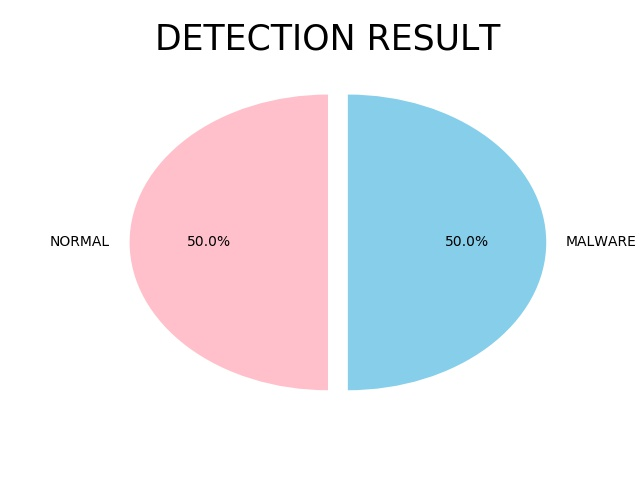
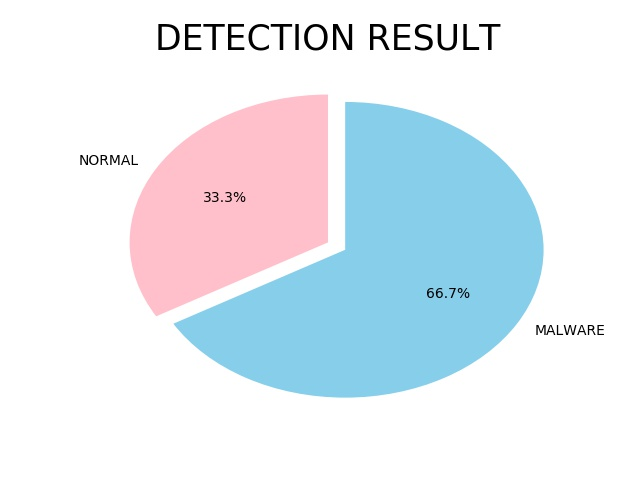
완성전 v1.0

diff --git a/PROJ_COD/FINAL/main.py b/PROJ_COD/FINAL/main.py
@@ -5,7 +5,6 @@ from PyQt5.QtGui import QPixmap, QIcon
 from PyQt5.QtWidgets import QFileDialog, QTableWidgetItem, QAbstractItemView
 from datetime import datetime
 import matplotlib.pyplot as plt
-
 import PROJ_COD.FINAL.Get_File_Hash as getFileHash
 import PROJ_COD.FINAL.Get_Machine_Percentage as fileMachine
 import PROJ_COD.FINAL.Get_MongoDB_Connection as mongoDB
@@ -24,6 +23,7 @@ class Form(QtWidgets.QDialog):
         self.tabWidget.setTabEnabled(1, False)
         self.tabWidget.setTabEnabled(4, False)
         self.dialogTextBrowser = MyDialog(self)
+        self.ui.tab0ProcessLabel.setText("파일을 선택하세요")
 
         global fname
         fname = ""
@@ -36,6 +36,7 @@ class Form(QtWidgets.QDialog):
 
     @pyqtSlot()
     def startFileDetectionBtnClick(self):
+        self.ui.tab0ProcessLabel.setText("작동중")
         fname = self.ui.selected_file.text()
         if fname[-3:] != "exe" or fname == "":
             self.dialogTextBrowser.exec_()
@@ -49,6 +50,8 @@ class Form(QtWidgets.QDialog):
             self.ui.page2_filepathLabel.setText(fileDirName)
             fileHash = getFileHash.getFileHash(fname)
             self.ui.page2_md5Label.setText(fileHash)
+
+
 
             md5Check = getFileHash.checkHashInDB(fname)
             if md5Check[0] == "YES":
@@ -73,9 +76,19 @@ class Form(QtWidgets.QDialog):
                 print(dic)
                 print(dic[0])
                 try:
-                    if dic[0] > 10:
+                    if dic[0] > 4:
                         self.ui.numCountLabel2.setText("악성 코드")
                         self.ui.numberCountLabel.setPixmap(QPixmap("그림2.jpg"))
+                        # 머신러닝 돌리는 코드
+                        # 파일 경로 전송해줘야됨
+                        machineRslt = fileMachine.getFIleMachine(fname)
+                        if machineRslt == "NORMAL":
+                            self.ui.page2_similarLabel.setText("정상파일")
+                            self.ui.machineResultLabel.setText("정상파일")
+                        else:
+                            self.ui.page2_similarLabel.setText("악성파일")
+                            self.ui.machineResultLabel.setText("악성파일")
+                            self.ui.numberCountLabel.setPixmap(QPixmap("그림3.jpg"))
                     else:
                         self.ui.numCountLabel2.setText("정상 파일")
                         self.ui.numberCountLabel.setPixmap(QPixmap("그림2.jpg"))
@@ -85,16 +98,6 @@ class Form(QtWidgets.QDialog):
                     print("[+] dic['positives'] DOES NOT EXIST.")
                     # self.up.numberCountLabel.setPiexmap("그림1.jpg")
                     ###############################
-                # 머신러닝 돌리는 코드
-                # 파일 경로 전송해줘야됨
-                machineRslt = fileMachine.getFIleMachine(fname)
-                if machineRslt == "NORMAL":
-                    self.ui.page2_similarLabel.setText("정상파일")
-                    self.ui.machineResultLabel.setText("정상파일")
-                else:
-                    self.ui.page2_similarLabel.setText("악성파일")
-                    self.ui.machineResultLabel.setText("악성파일")
-                self.ui.numberCountLabel.setPixmap(QPixmap("그림3.jpg"))
             else:
                 print("Error !!!")
                 ################################
@@ -220,22 +223,28 @@ class Form(QtWidgets.QDialog):
 
     @pyqtSlot()
     def startFolderDetectionBtnClick(self):
+        self.ui.tab4ProcessLabel.setText("작동중")
         self.ui.inputNormal.setText(self.ui.numNormal.text())
         self.ui.inputMalware.setText(self.ui.numMalware.text())
 
         flist = glob.glob(dname + "/*.exe")
         normalCount = 0
         malwareCount = 0
+        # 바이러스 토탈 돌리기
         for fname in flist:
-            # 머신러닝 돌리는 코드
-            # 파일 경로 전송해줘야됨
-            print("[+] fname : ", fname)
-            machineRslt = fileMachine.getFIleMachine(fname)
-            print("{+}", machineRslt)
-            if machineRslt == "NORMAL":
-                normalCount += 1
+            dic = vt.get_mal_kind(fname)
+            if dic[0] > 4:
+                self.ui.numCountLabel2.setText("악성 코드")
+                self.ui.numberCountLabel.setPixmap(QPixmap("그림2.jpg"))
+                # 머신러닝 돌리는 코드
+                # 파일 경로 전송해줘야됨
+                machineRslt = fileMachine.getFIleMachine(fname)
+                if machineRslt == "NORMAL":
+                    normalCount += 1
+                else:
+                    malwareCount += 1
             else:
-                malwareCount += 1
+                normalCount += 1
 
         self.ui.detectedNormal.setText(str(normalCount))
         self.ui.detectedMalware.setText(str(malwareCount))

diff --git a/PROJ_COD/FINAL/Save_Learn_Data.py b/PROJ_COD/FINAL/Save_Learn_Data.py
@@ -5,9 +5,10 @@ import PROJ_COD.FINAL.Get_VirusTotal as getVirustotal
 import PROJ_COD.FINAL.Get_File_Hash as getFileHash
 import PROJ_COD.FINAL.Get_MongoDB_Connection as mongoDB
 
-# learnFiles = glob.glob("G:\\악성코드\\*.exe")
-learnFiles = glob.glob("G:\\exe파일\\*.exe")
+learnFiles = glob.glob("G:\\악성코드\\*.exe")
+# learnFiles = glob.glob("G:\\exe파일\\*.exe")
 # learnFiles = glob.glob("G:\\exe파일\\새 폴더\\*.exe")
+# learnFiles = glob.glob("C:\\Users\\Administrator\\Downloads\\*.exe")
 
 def insertDataToDatabase():
     checkData = getFileHash.checkHashInDB(fileInfo['hash'])
@@ -19,9 +20,11 @@ def insertDataToDatabase():
         print("[+] Insert FAILE!!!!!!!")
 
 for filePath in learnFiles:
-    print(filePath)
+    print("[+]------------------------------------------------------------------------------------------------------>")
+    print("[+] file Path : ", filePath)
     fileInfo = getFileInfo.getFileInfo(filePath)
     checkDB = getFileHash.checkHashInDB(getFileHash.getFileHash(filePath))
+    print("[+] FILE HASH : ",getFileHash.getFileHash(filePath))
     if checkDB[0] == "NO":
         if fileInfo != "NOPEFILE":
             virustotal = getVirustotal.get_mal_kind(filePath)
@@ -30,11 +33,13 @@ for filePath in learnFiles:
                 fileInfo.update({"kind": "NORMAL", "detect": "NORMAL"})
                 insertDataToDatabase()
             elif virustotal[1] == "ERROR":
-                print("ERROR!!!!@!@!@!@!@!@!@!@!!@")
+                print("[+] ERROR !@!#!@#!@#!@#!#@!@#!@#!@#!@#!@#!@#!#!@#!#!#@!#!")
                 pass
             else:
                 fileInfo.update({"kind": "MALWARE", "detect": virustotal[1]})
                 insertDataToDatabase()
         else:
             print("[+] THIS IS NOT PEFILE. WE CAN'T DETECT THIS FILE !!!!!!!!!!!!!!!!!")
+    else:
+        print("[+] HASH ALREADY EXIST")
 

diff --git a/PROJ_COD/FINAL/Get_VirusTotal.py b/PROJ_COD/FINAL/Get_VirusTotal.py
@@ -2,7 +2,7 @@ import requests
 import json
 import hashlib
 import sys
-
+import PROJ_COD.FINAL.Get_File_Hash as getFileHash
 """
 작성일   : 2017-07-??(최초작성)
 수정일   : 
@@ -42,7 +42,6 @@ class Virustotal():
     def rscReport(self,filemd5):
         """ Get latest report of resource """
         try:
-            print(filemd5)
[1 lines of base64/hex data omitted]
             headers = {
                 "Accept-Encoding": "gzip, deflate",
@@ -203,23 +202,15 @@ def get_mal_kind(fileName):
     main = Virustotal()
     # FileSending = main.rscSubmit(fileName)
     # print(FileSending)
-    var = main.md5(fileName)
+    var = getFileHash.getFileHash(fileName)
     dic = main.rscReport(var)
-    print(dic['verbose_msg'])
     if str(dic)== "{}" or str(dic['verbose_msg']) == "The requested resource is not among the finished, queued or pending scans":
         FileSending = main.rscSubmit(fileName)
-        print(FileSending)
-    # print("dic['positives']    dfsfsfsdfsdfs  ", dic['positives'])
     dic = main.rscReport(var)
-    print(dic)
     try:
-        print("dic['positives']    dfsfsfsdfsdfs  ",dic['positives'])
-        if dic['positives'] > 10:
-            print("wwwwwwwwwwwwwwww")
+        if dic['positives'] > 4:
             for key, value in dic['scans'].items():
-                print("eeeeeeeeeeeeeeeeeee")
                 if value['result'] != None:
-                    print("rrrrrrrrrrrrrrrrrr")
                     return dic['positives'], value['result']
         else:
             return 0, "NORMAL"
